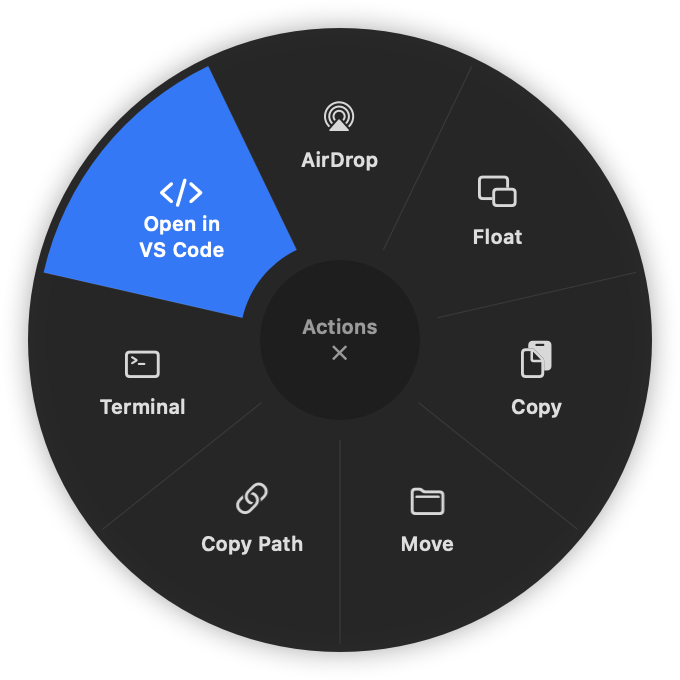
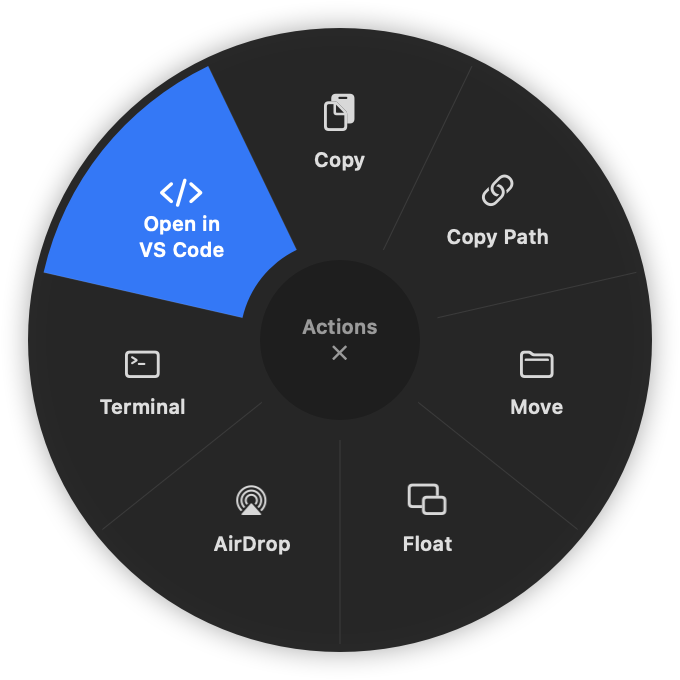
feat: reorder actions wheel and add MIT license
Actions wheel now reads Copy, Copy Path, Move, Float, AirDrop, Terminal
(clipboard first, open-in apps last). Regenerate its screenshots and
update README and landing site copy.

diff --git a/docs/index.html b/docs/index.html
@@ -97,7 +97,7 @@
     <div class="cv-keys" role="tablist" aria-label="Converter wheels">
       <button class="cv-key on" role="tab" aria-selected="true" data-wheel="convert"><span class="key sm">⇧</span><span><b data-i18n="cv.k1">Convert</b><small data-i18n="cv.k1s">355 pairs: images, video, audio, PDF, documents, EPUB, subtitles, archives</small></span></button>
       <button class="cv-key" role="tab" aria-selected="false" data-wheel="tools"><span class="key sm">⌘</span><span><b data-i18n="cv.k2">Tools</b><small data-i18n="cv.k2s">28 tools: compress, resize, crop, redact, trim, merge PDFs, zip…</small></span></button>
-      <button class="cv-key" role="tab" aria-selected="false" data-wheel="actions"><span class="key sm">⌃</span><span><b data-i18n="cv.k3">Actions</b><small data-i18n="cv.k3s">AirDrop, Float, Copy, Move, Copy Path, open in Terminal or VS Code</small></span></button>
+      <button class="cv-key" role="tab" aria-selected="false" data-wheel="actions"><span class="key sm">⌃</span><span><b data-i18n="cv.k3">Actions</b><small data-i18n="cv.k3s">Copy, Copy Path, Move, Float, AirDrop, open in Terminal or VS Code</small></span></button>
     </div>
     <figure class="cv-wheel">
       <img id="wheel" src="assets/wheel-convert.png" alt="The Convert wheel" width="680" height="680" loading="lazy">

diff --git a/tully/Shared/ScreenshotRenderer.swift b/tully/Shared/ScreenshotRenderer.swift
@@ -12,7 +12,7 @@ enum ScreenshotRenderer {
         // File Converter wheels (Convert for an image, Tools for a PDF, Actions)
         for (kind, file, highlight, name) in [(WheelKind.convert, samples.png, 1, "wheel-convert"),
                                               (.tools, samples.pdf, 0, "wheel-tools"),
-                                              (.actions, samples.png, 4, "wheel-actions"),
+                                              (.actions, samples.png, 1, "wheel-actions"),
                                               (.actions, samples.folder, 6, "wheel-actions-folder"),
                                               (.actions, samples.code, 6, "wheel-actions-code")] {
             let view = WheelView(frame: NSRect(x: 0, y: 0, width: WheelPanel.size, height: WheelPanel.size))

diff --git a/Packages/KumquatCore/Tests/KumquatCoreTests/WheelTests.swift b/Packages/KumquatCore/Tests/KumquatCoreTests/WheelTests.swift
@@ -198,6 +198,11 @@ final class OpenInActionTests: XCTestCase {
         XCTAssertTrue(none.contains(.terminal)) // Terminal ships with macOS
     }
 
+    func testActionsWheelOrder() {
+        XCTAssertEqual(FileAction.applicable(to: [url("photo.png")], isInstalled: { _ in true }),
+                       [.copy, .copyPath, .move, .float, .airDrop, .terminal])
+    }
+
     func testOpenInEntriesForTheToolsWheel() {
         XCTAssertEqual(FileAction.openIn(for: [url("Project")], isInstalled: { _ in true }), [.terminal, .iTerm])
         XCTAssertEqual(FileAction.openIn(for: [url("main.swift")], isInstalled: { _ in true }), [.vsCode])

diff --git a/docs/i18n.js b/docs/i18n.js
@@ -25,7 +25,7 @@ window.I18N = {
     'cv.k2': 'Strumenti',
     'cv.k2s': '28 strumenti: comprimi, ridimensiona, ritaglia, oscura, taglia, unisci PDF, zip…',
     'cv.k3': 'Azioni',
-    'cv.k3s': 'AirDrop, Float, Copia, Sposta, Copia percorso, apri nel Terminale o in VS Code',
+    'cv.k3s': 'Copia, Copia percorso, Sposta, Float, AirDrop, apri nel Terminale o in VS Code',
     'gl.title': 'Tutto il resto, <i>dove te lo aspetti.</i>',
     'gl.c1': 'System Monitor: ogni processo raggruppato per app',
     'gl.c2': 'I suggerimenti di tiling riempiono lo spazio rimasto',

diff --git a/Packages/KumquatCore/Sources/KumquatCore/FileActions.swift b/Packages/KumquatCore/Sources/KumquatCore/FileActions.swift
@@ -2,7 +2,8 @@ import AppKit
 
 /// The actions wheel. AirDrop and Float need UI and are performed by the app.
 public enum FileAction: String, CaseIterable, Sendable {
-    case airDrop, float, copy, move, copyPath, terminal, iTerm, vsCode
+    // Declaration order is wheel order, clockwise from the top: clipboard first, "open in" apps last.
+    case copy, copyPath, move, float, airDrop, terminal, iTerm, vsCode
 
     public var title: String {
         switch self {

diff --git a/README.md b/README.md
@@ -169,7 +169,7 @@ A keyboard window switcher that also switches between windows of the same app.
 | :---: | --- | --- |
 | ⇧ Shift | **Convert** | Every format the file can become: 355 conversion pairs across images, video, audio, PDF, documents, EPUB, slides, spreadsheets, subtitles and archives |
 | ⌘ Command | **Tools** | 28 tools filtered to the file: compress (by % or target size), resize, rotate, flip, crop, adjust, annotate, redact, metadata, QR reading, make PDF, collage, trim, speed, split, join, normalize, bleep, channels, video crop and snapshot, PDF merge, split, reorganize and rotate, zip |
-| ⌃ Control | **Actions** | AirDrop, Float (an always-on-top shelf), Copy, Move (recent folders), Copy Path, Terminal. Folders also get **Open folder in Terminal** and **Open folder in iTerm2**; code files get **Open in VS Code** (when those apps are installed). These "open in" entries are on the ⌘ Tools wheel too |
+| ⌃ Control | **Actions** | Copy, Copy Path, Move (recent folders), Float (an always-on-top shelf), AirDrop, Terminal. Folders also get **Open folder in Terminal** and **Open folder in iTerm2**; code files get **Open in VS Code** (when those apps are installed). These "open in" entries are on the ⌘ Tools wheel too |
 
 | Convert | Tools | Actions |
 | :---: | :---: | :---: |
@@ -340,3 +340,4 @@ scripts/             build, test, perf, e2e, screenshots, icons
 - **Privacy:** no network calls and no analytics. Conversions, scans and cleanups happen on your Mac.
 - **Uninstall:** quit tully, delete the app, then `defaults delete com.simone98dm.tully`.
 - **Credits:** the ring concept is inspired by [Loop](https://github.com/MrKai77/Loop), the tiling suggestions and Disk Clean rules by [One Menu](https://coffeebreak.software/one-menu/), and the File Converter by [Tangerine](https://apps.apple.com/app/id6813034065). No code was copied from Loop (GPL); the ring is an independent implementation.
+- **License:** [MIT](LICENSE).
